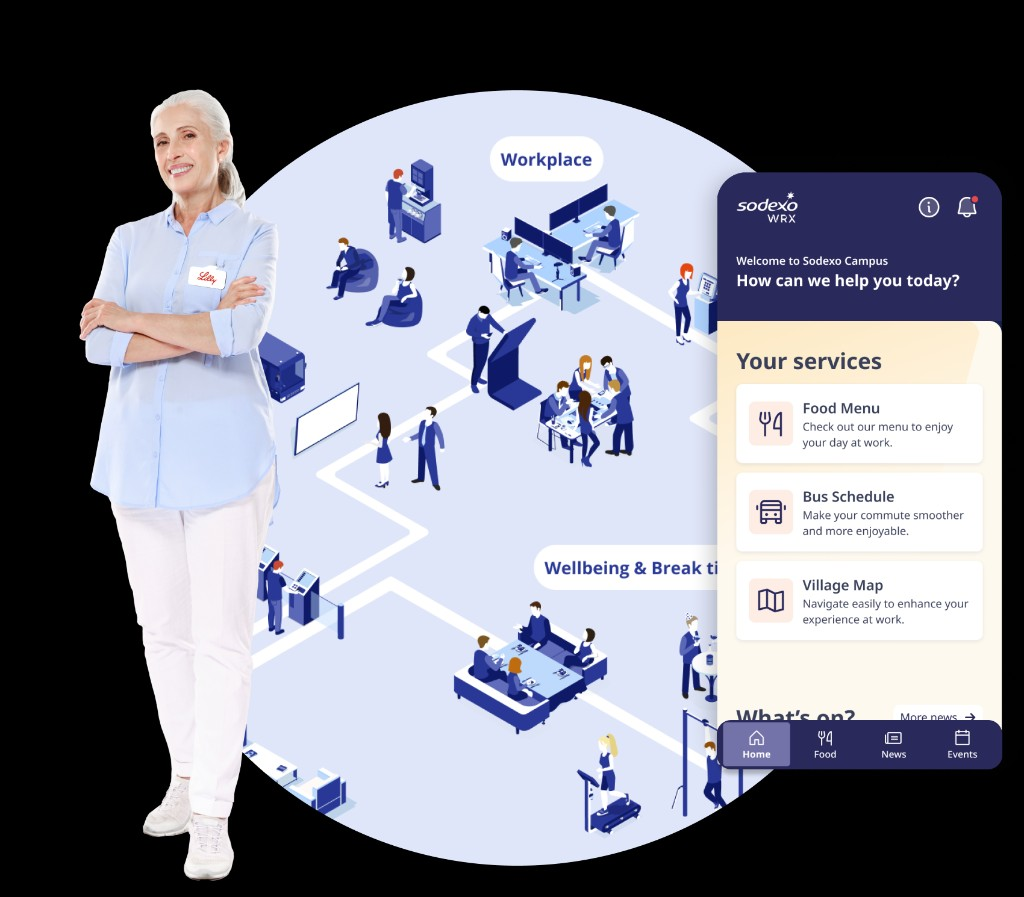
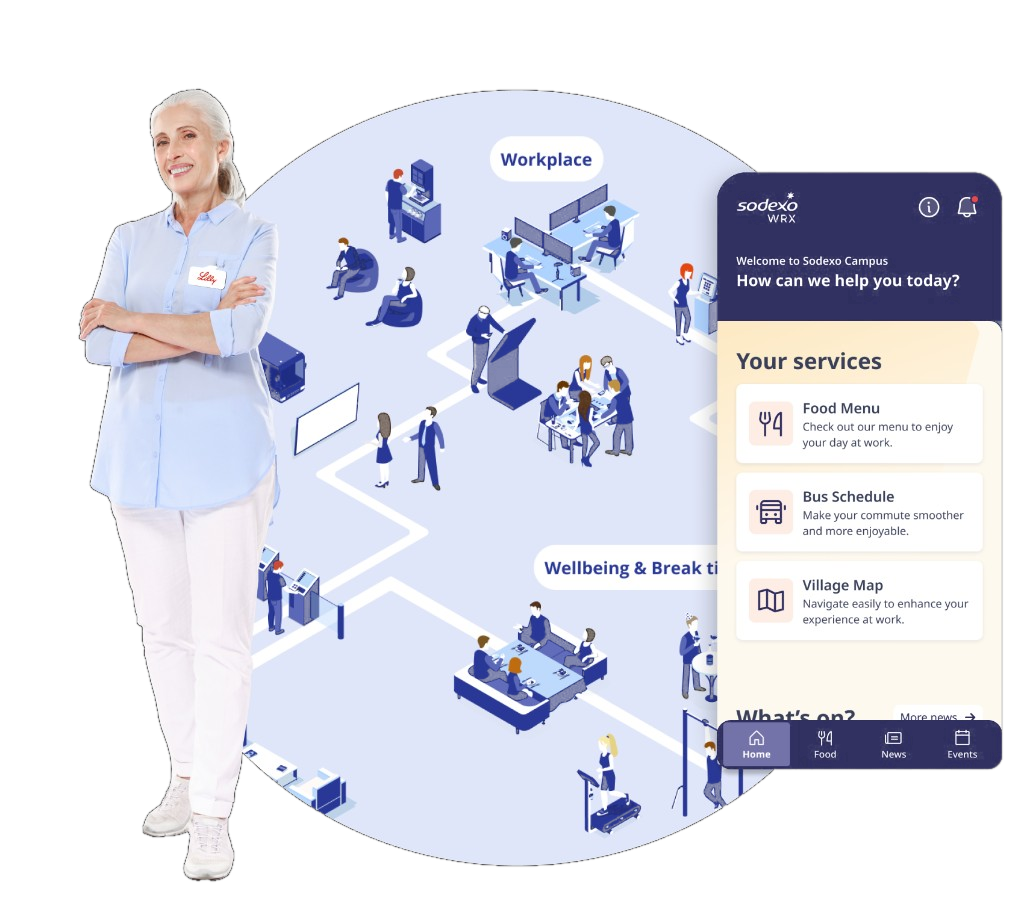
fix(home): make hero composite background transparent
The composite was shipped as a JPEG (no alpha) with a solid black
backdrop, which clashed with the navy hero gradient and the teal halo
behind it. Replace with a true RGBA PNG whose alpha channel is built
from a luminance ramp, so the former black block becomes transparent
and the silhouette edges feather cleanly.

Also adds `scripts/strip-hero-background.py` so we can re-run the
pass whenever the source asset is refreshed.

Made-with: Cursor

diff --git a/scripts/strip-hero-background.py b/scripts/strip-hero-background.py
@@ -1,0 +1,52 @@
+"""Strip the solid black background of hero-composite and save as true PNG.
+
+The source file at `public/images/catalogue/assets/home/hero-composite.png`
+is actually a JPEG without alpha. We build an alpha channel from luminance:
+pixels that are effectively black become transparent, bright pixels stay
+opaque, and a soft ramp in between prevents jaggies and dark halos.
+"""
+from __future__ import annotations
+
+from pathlib import Path
+
+from PIL import Image, ImageFilter
+
+SRC = Path("public/images/catalogue/assets/home/hero-composite.png")
+OUT = SRC  # overwrite in place so the existing <img src> keeps working
+
+# Luminance threshold range. Below LOW = fully transparent,
+# above HIGH = fully opaque, linear ramp in between.
+LOW = 12.0   # anything dimmer than this is considered background
+HIGH = 48.0  # anything brighter is considered subject
+
+def main() -> None:
+    img = Image.open(SRC).convert("RGB")
+    w, h = img.size
+    px = img.load()
+
+    # Build an 8-bit alpha mask from luminance (Rec. 601).
+    alpha = Image.new("L", (w, h), 0)
+    ax = alpha.load()
+    for y in range(h):
+        for x in range(w):
+            r, g, b = px[x, y]
+            lum = 0.299 * r + 0.587 * g + 0.114 * b
+            if lum <= LOW:
+                a = 0
+            elif lum >= HIGH:
+                a = 255
+            else:
+                a = int(255 * (lum - LOW) / (HIGH - LOW))
+            ax[x, y] = a
+
+    # Very light gaussian blur smooths the cutout without eating the subject.
+    alpha = alpha.filter(ImageFilter.GaussianBlur(radius=0.6))
+
+    out = img.convert("RGBA")
+    out.putalpha(alpha)
+    out.save(OUT, format="PNG", optimize=True)
+    print(f"Wrote {OUT} ({out.size[0]}x{out.size[1]}, RGBA)")
+
+
+if __name__ == "__main__":
+    main()
